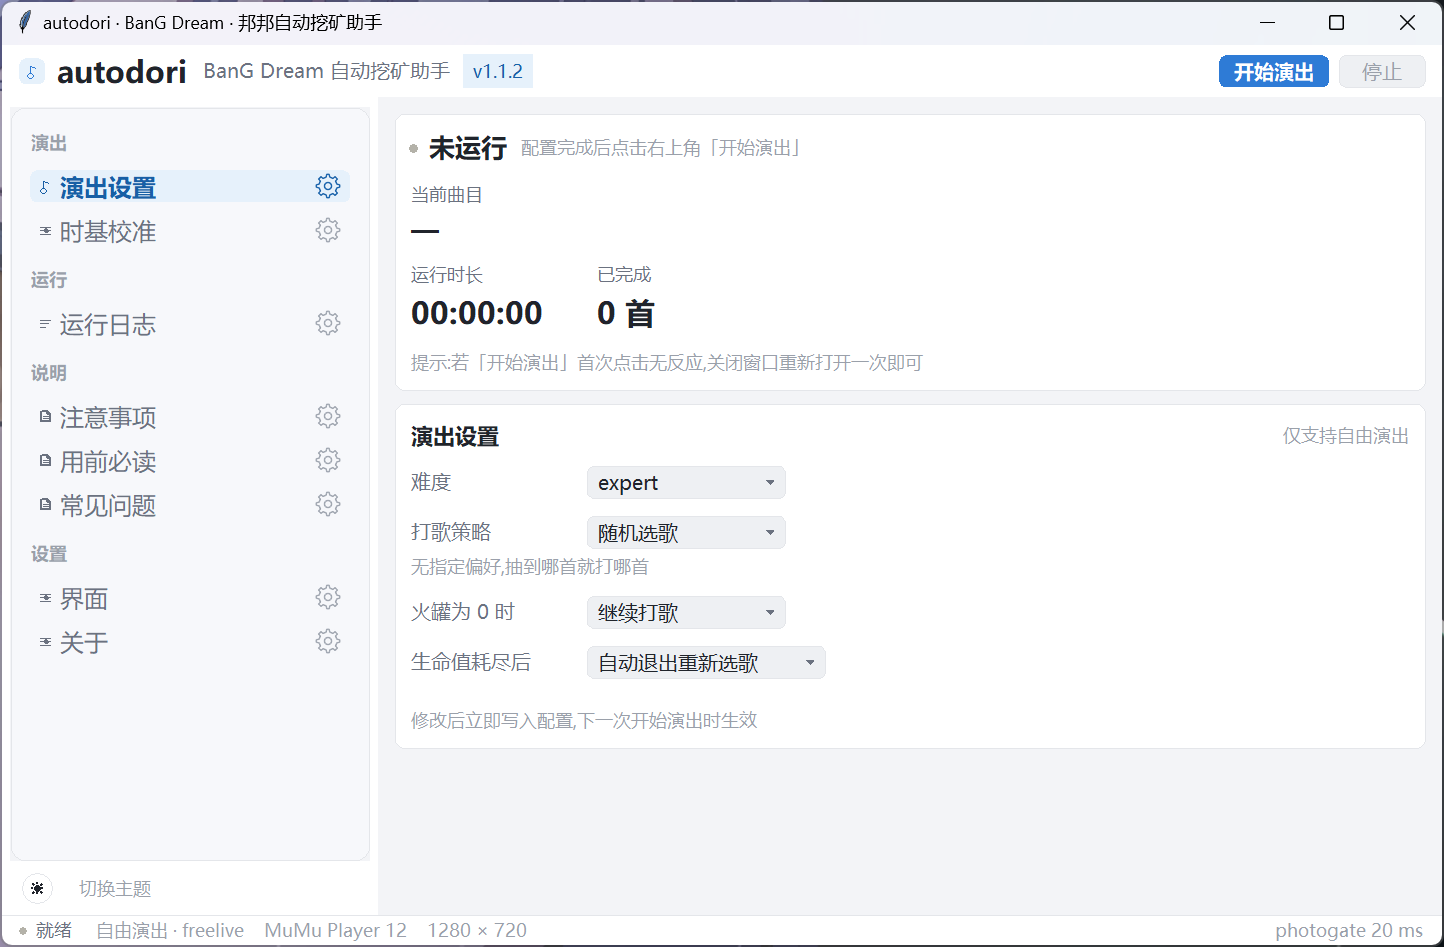
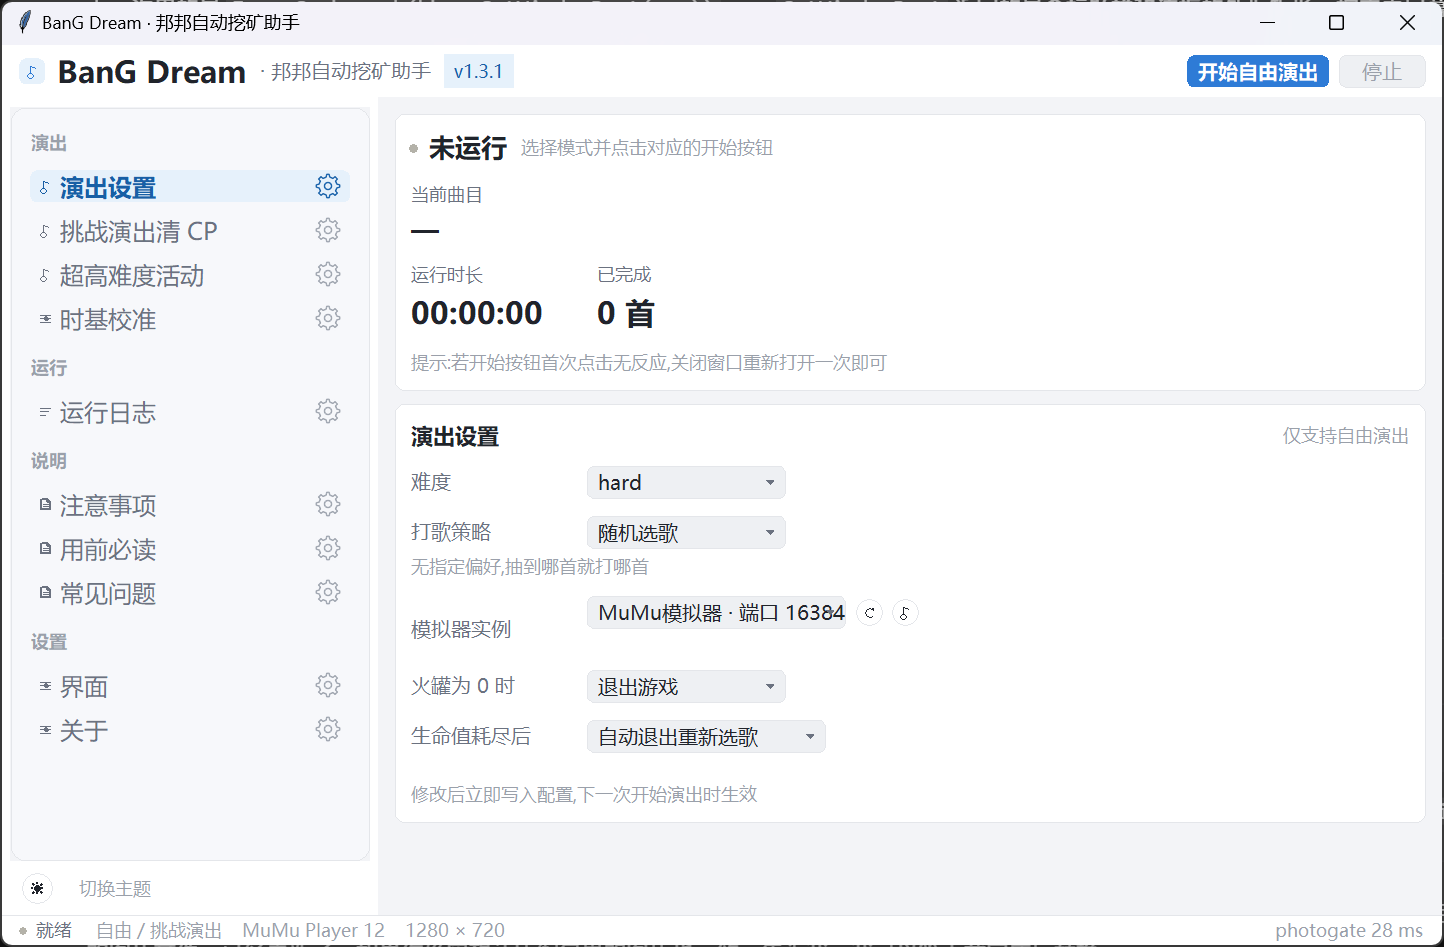
docs: 更正 README 首图为整窗截图并修正状态文字越界

diff --git a/gui.py b/gui.py
@@ -1738,10 +1738,14 @@ class AutodoriGUI:
 
         self.device_status = tk.Label(
             r.slot, text="", bg=th["surface"], fg=th["text_3"],
-            font=T.font(self.font_size - 1), anchor="w")
-        # padx 见 _DEVICE_TEXT_PADX 的说明：让状态文字与框内文字左缘对齐
+            font=T.font(self.font_size - 1), anchor="w", justify="left",
+            wraplength=760,   # 状态文字较长时不越出卡片右边界（实测截图里被截断）
+        )
+        # padx 见 _DEVICE_TEXT_PADX 的说明：让状态文字与框内文字左缘对齐。
+        # 右侧留 11px 余量 —— 只加左边距的话，右对齐的文字会顶出卡片边界。
         self.device_status.pack(fill="x", pady=(4, 0),
-                                padx=self._DEVICE_TEXT_PADX)
+                                padx=(self._DEVICE_TEXT_PADX,
+                                      self._DEVICE_TEXT_PADX))
         if not self._devices:
             self.device_status.configure(
                 text="点右侧按钮扫描实例 — 多开时在此指定连哪台")
